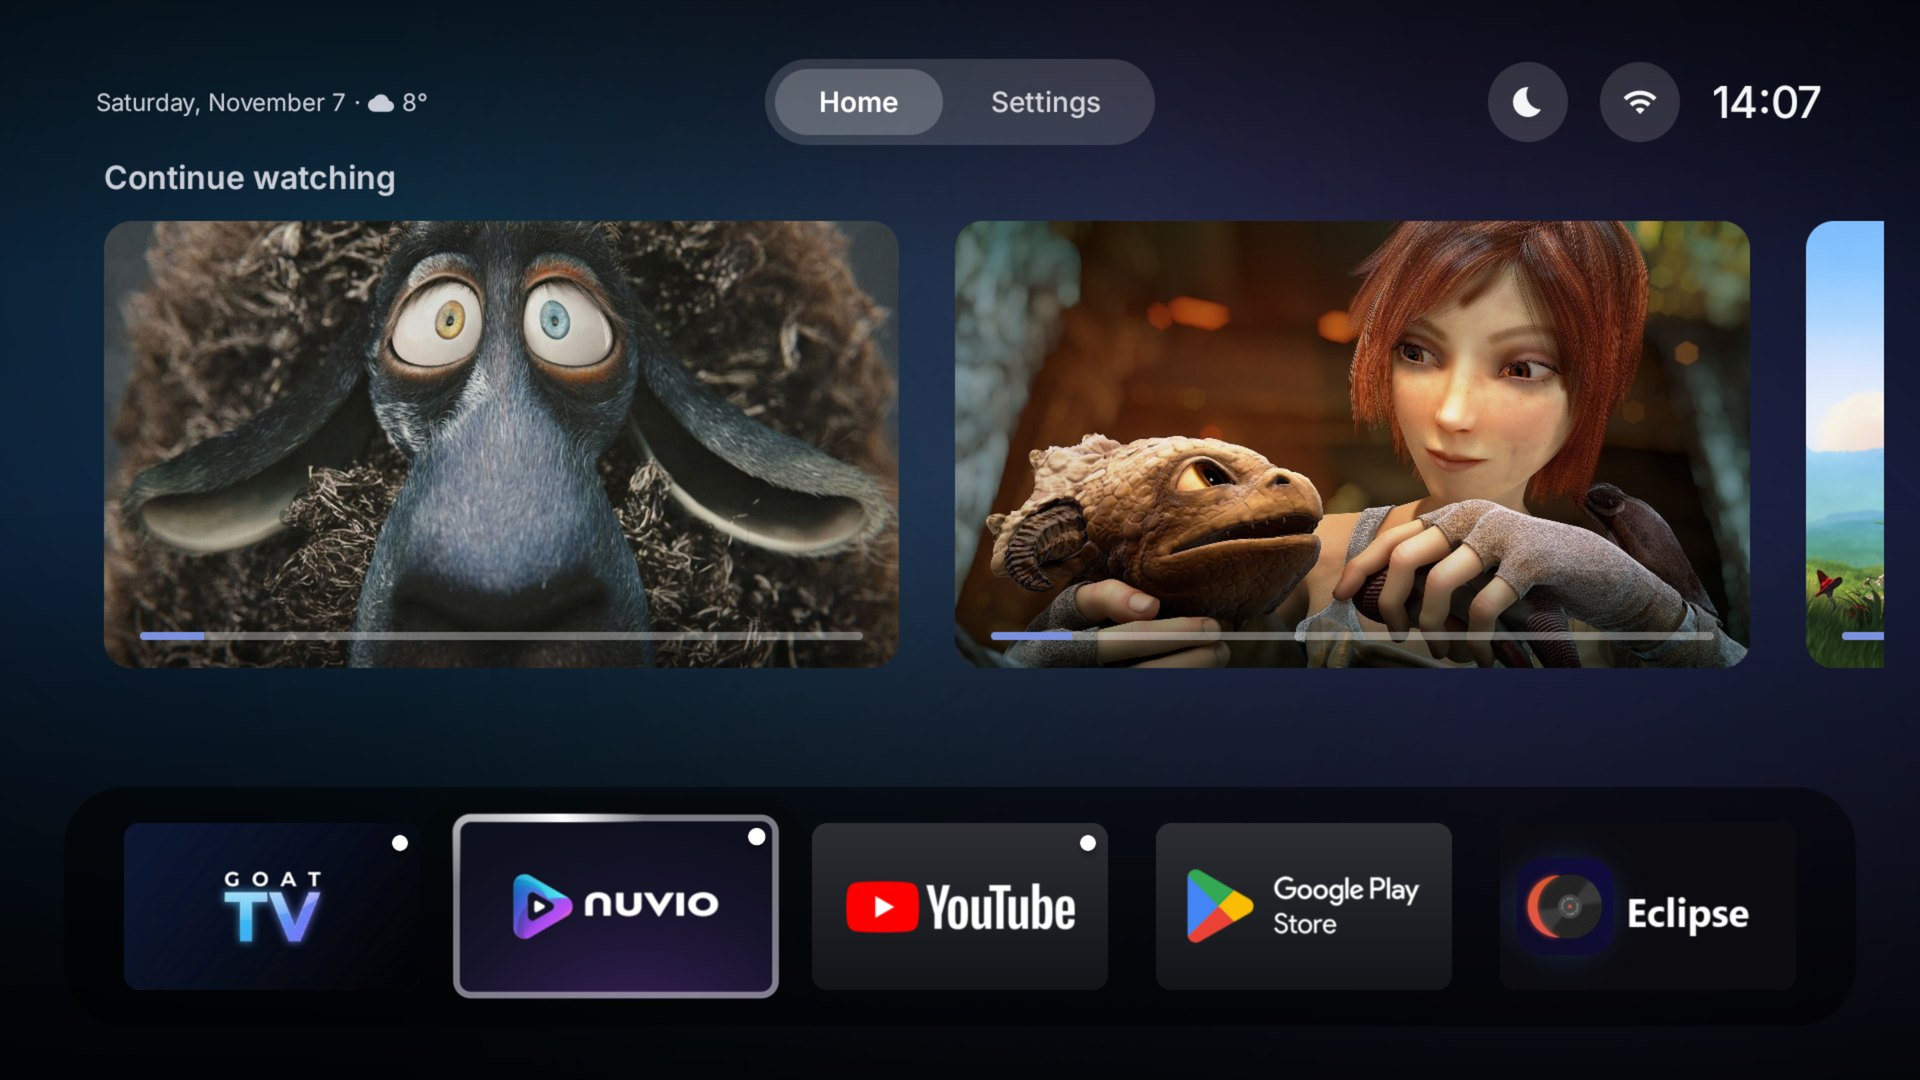
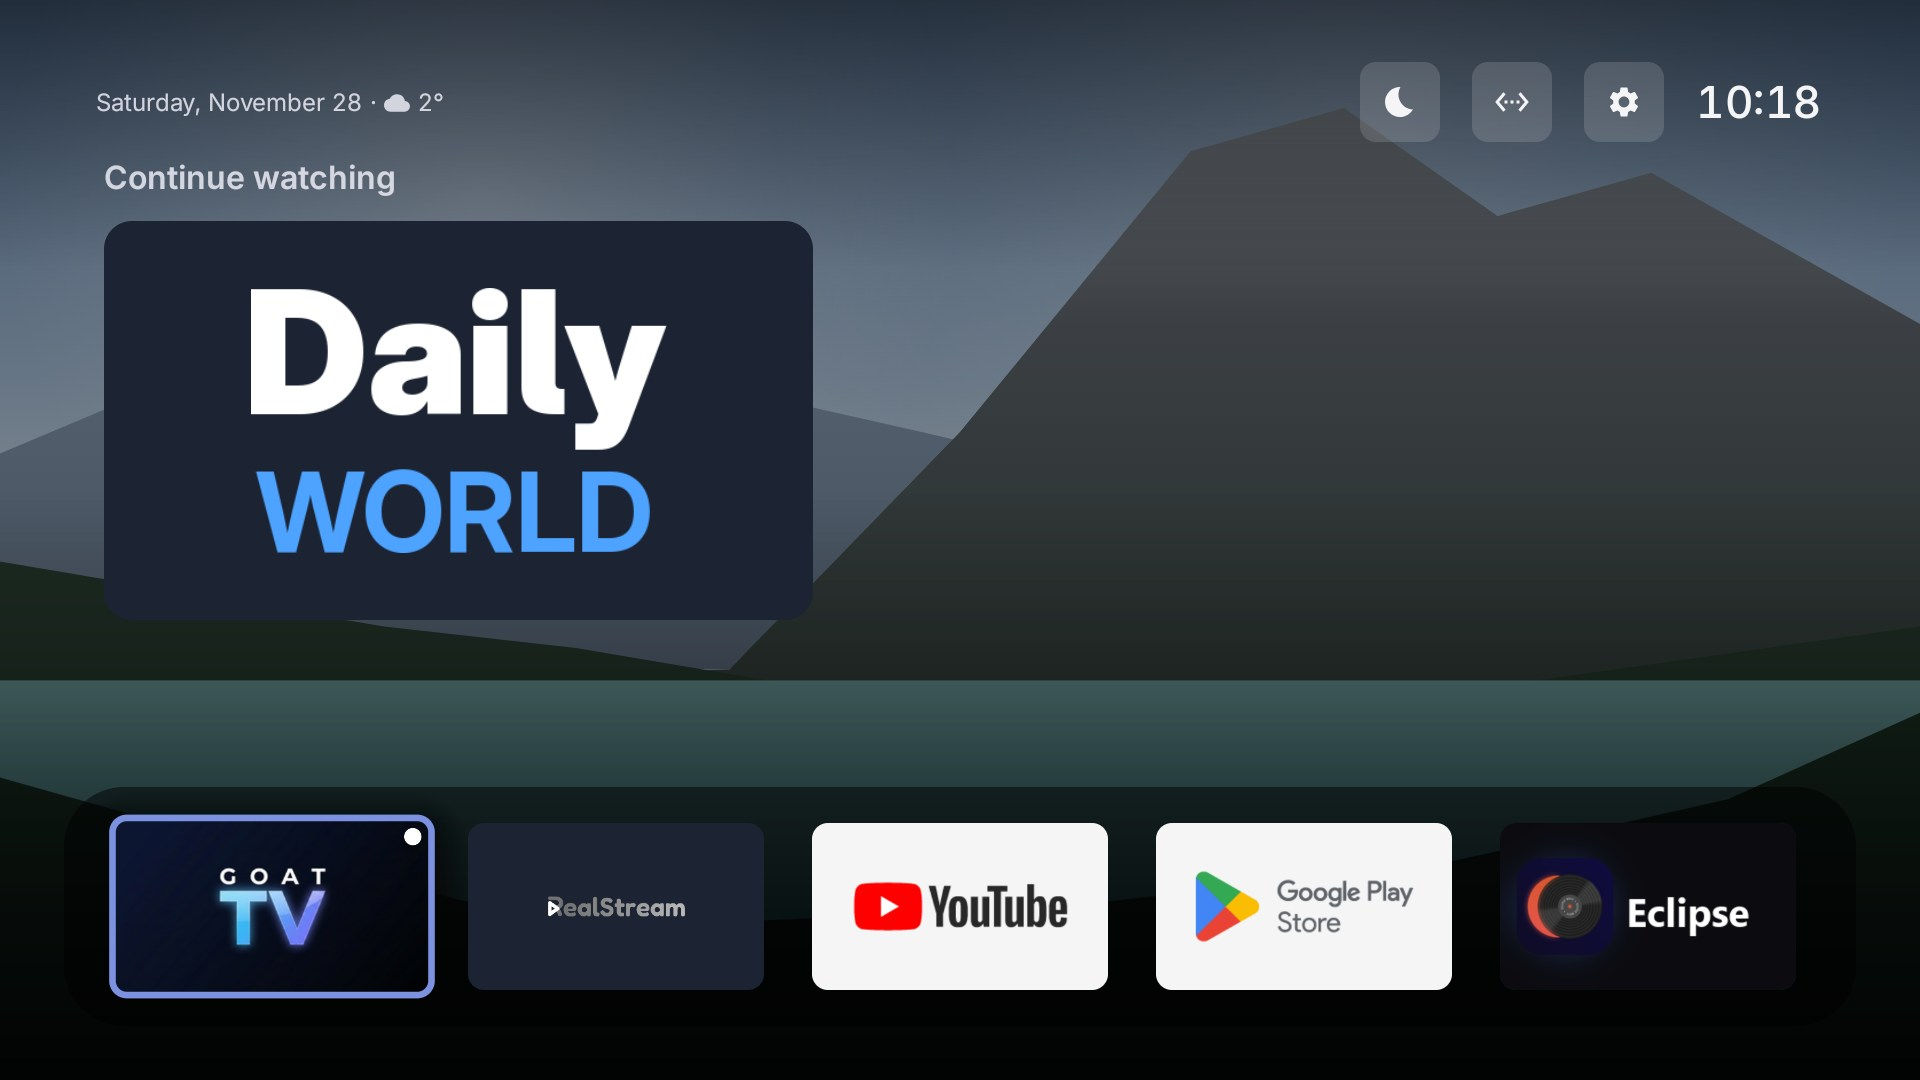
README: screenshots of 0.11.0
Full-page Settings, the Home | Apps tabs with the gear button, and the
focus effects on the built-in Lake wallpaper. Continue watching comes from
GoatTV with a demo playlist; the dock has RealJF instead of Nuvio.

diff --git a/README.md b/README.md
@@ -12,8 +12,8 @@ A home screen for Android TV and Google TV.
 | ![Appearance, Android TV style](docs/screenshots/appearance-android-tv.jpg) | ![Appearance, tvOS style](docs/screenshots/appearance-tvos.jpg) |
 | ![Aurora focus effect](docs/screenshots/effect-aurora.jpg) | ![Floating ring focus effect](docs/screenshots/effect-floating-ring.jpg) |
 
-Continue watching from Nuvio. "Big Buck Bunny" and "Sintel" © Blender Foundation, CC BY 3.0; "Cosmos Laundromat"
-© Blender Foundation, CC BY 4.0. Focus effect wallpapers: CC0 photos from Wikimedia Commons.
+Continue watching from GoatTV with a demo playlist (made-up channels; the programme names are Blender Foundation
+open movies). Wallpaper: the built-in "Lake".
 
 ## Install
 
